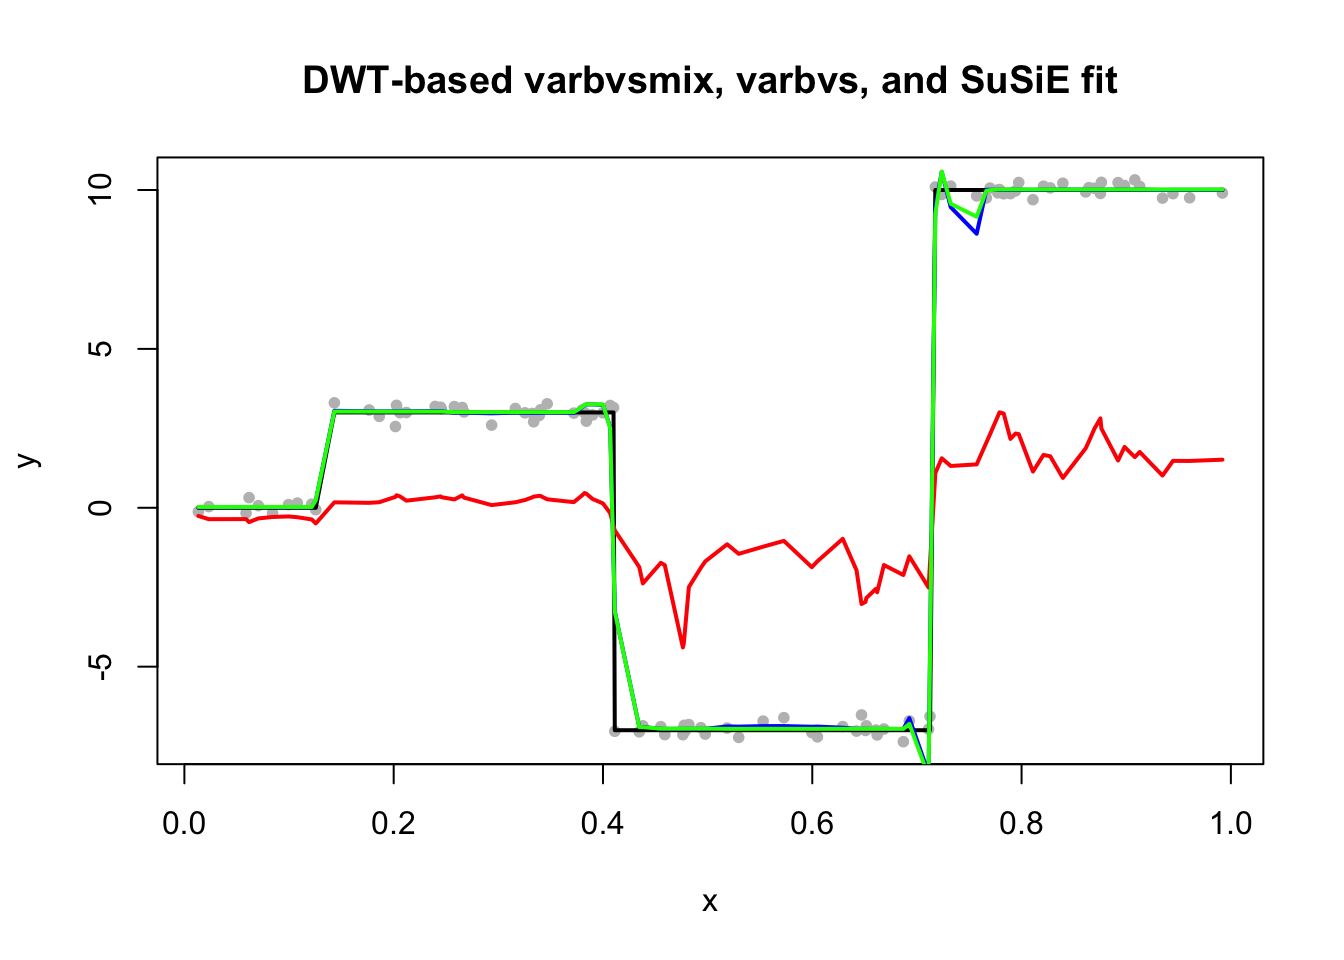
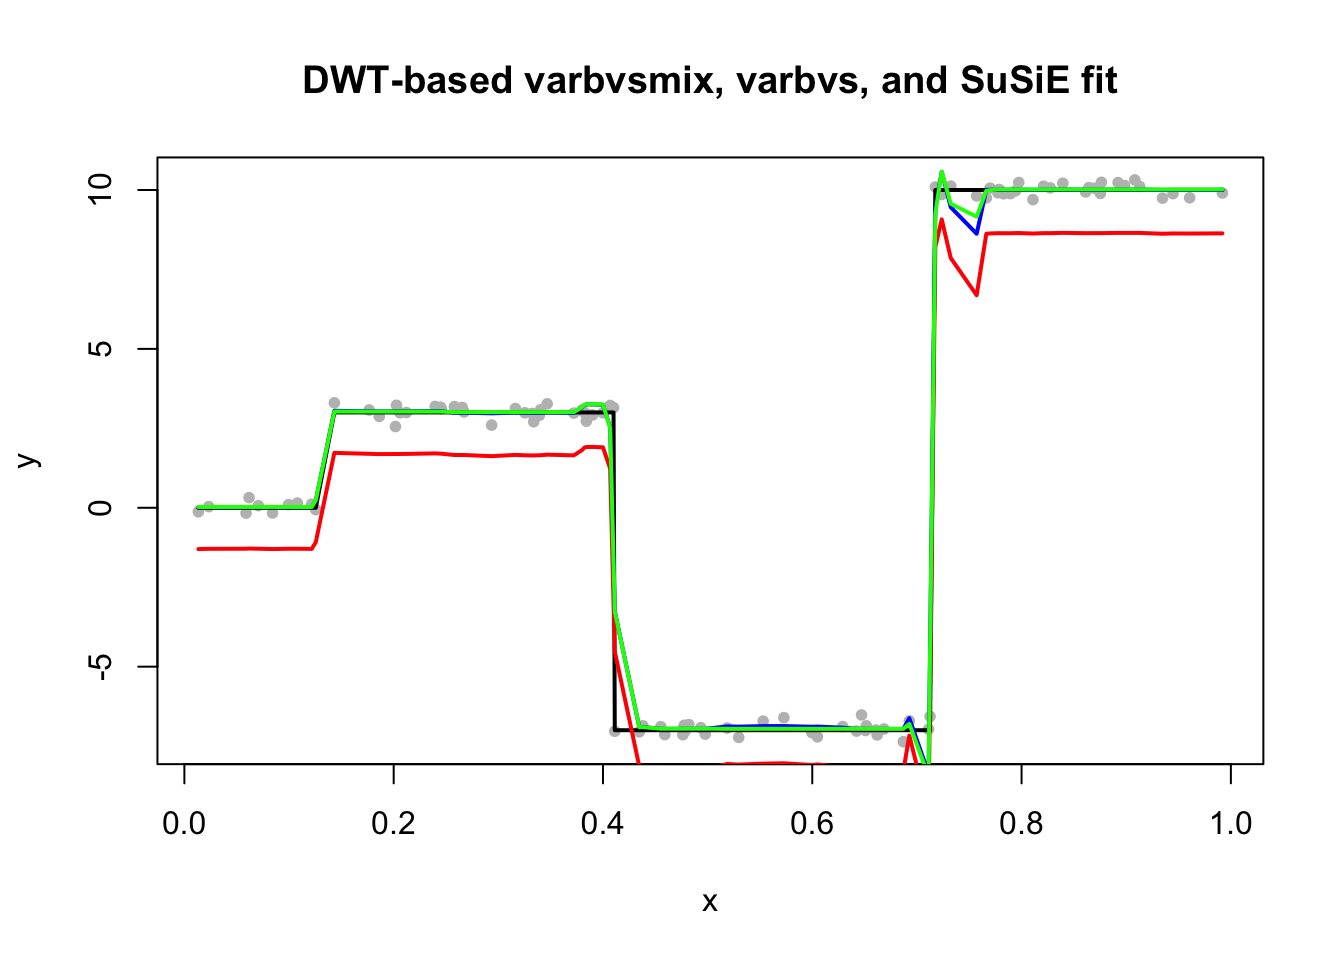
Build site.

diff --git a/docs/wavelet-susie-20190221.html b/docs/wavelet-susie-20190221.html
@@ -460,7 +460,7 @@ div.section {
 </details>
 </li>
 <li>
-<p><details> <summary> <strong style="color:blue;">✔</strong> <strong>Repository version:</strong> <a href="https://github.com/KaiqianZhang/susie-np/tree/79963784defa9d81d6141adc1b2d03c01f268911" target="_blank">7996378</a> </summary></p>
+<p><details> <summary> <strong style="color:blue;">✔</strong> <strong>Repository version:</strong> <a href="https://github.com/KaiqianZhang/susie-np/tree/7502be0c29da3d04389c113c6c67f737e9022ccc" target="_blank">7502be0</a> </summary></p>
 Great! You are using Git for version control. Tracking code development and connecting the code version to the results is critical for reproducibility. The version displayed above was the version of the Git repository at the time these results were generated. <br><br> Note that you need to be careful to ensure that all relevant files for the analysis have been committed to Git prior to generating the results (you can use <code>wflow_publish</code> or <code>wflow_git_commit</code>). workflowr only checks the R Markdown file, but you know if there are other scripts or data files that it depends on. Below is the status of the Git repository when the results were generated:
 <pre><code>
 Ignored files:
@@ -511,6 +511,40 @@ Message
 </tr>
 </thead>
 <tbody>
+<tr>
+<td style="text-align:left;">
+Rmd
+</td>
+<td style="text-align:left;">
+<a href="https://github.com/KaiqianZhang/susie-np/blob/7502be0c29da3d04389c113c6c67f737e9022ccc/analysis/wavelet-susie-20190221.Rmd" target="_blank">7502be0</a>
+</td>
+<td style="text-align:left;">
+kaiqian
+</td>
+<td style="text-align:left;">
+2019-02-21
+</td>
+<td style="text-align:left;">
+try varbvs framework again
+</td>
+</tr>
+<tr>
+<td style="text-align:left;">
+html
+</td>
+<td style="text-align:left;">
+<a href="https://cdn.rawgit.com/KaiqianZhang/susie-np/bd8a5ca88149571d7fa5297cff57338c370963be/docs/wavelet-susie-20190221.html" target="_blank">bd8a5ca</a>
+</td>
+<td style="text-align:left;">
+kaiqian
+</td>
+<td style="text-align:left;">
+2019-02-21
+</td>
+<td style="text-align:left;">
+Build site.
+</td>
+</tr>
 <tr>
 <td style="text-align:left;">
 Rmd
@@ -606,7 +640,6 @@ y = beta + rnorm(n, sd=0.2)</code></pre>
 RW_t.decimated = tcrossprod(R, W.decimated)
 zero.idx = which(colSums(RW_t.decimated)==0)
 RW_t.decimated = RW_t.decimated[,-zero.idx]</code></pre>
-<p>```</p>
 </div>
 <div id="apply-varbvs-framework" class="section level2">
 <h2>Apply <code>varbvs</code> framework</h2>
@@ -617,11 +650,9 @@ sd.grid = c(0,10^seq(-2,1,length.out = 19))</code></pre>
 <pre class="r"><code>beta.est = rowSums(s.varbvsmix$alpha * s.varbvsmix$mu)
 yhat = RW_t.decimated %*% beta.est</code></pre>
 <p>Below we just use DWT-based matrix in the regression. The red line is varbvsmix fit, the blue line is varbvs fit, and the green line is SuSiE fit. We notice that SuSiE and varbvs fits are very similar. varbvs does not solve SuSiE’s problem, which is having artifacts around jumps. And we observe that actually varbvsmix fit is shifted, which seems like the problem could be solved by introducing a scaling parameter (as discussed yesterday). But one thing I’m not sure is about my usage on varbvsmix. I set standard deviations for mixtures as</p>
-<pre><code>sd = c(0, 0.1, 0.2, 0.5)
-sd.grid = c(0,10^seq(-2,1,length.out = 19))</code></pre>
-<p>and perform varbvsmix using both kinds of sd like</p>
-<pre><code>s.varbvsmix1 = varbvsmix(X=RW_t.decimated, Z=NULL, y=y, sa=sd^2)
-s.varbvsmix2 = varbvsmix(X=RW_t.decimated, Z=NULL, y=y, sa=sd.grid^2)</code></pre>
+<pre><code>sd.grid = c(0,10^seq(-2,1,length.out = 19))</code></pre>
+<p>and perform varbvsmix using this sd.grid</p>
+<pre><code>s.varbvsmix = varbvsmix(X=RW_t.decimated, Z=NULL, y=y, sa=sd.grid^2)</code></pre>
 <p>The fits are the same as displayed in the red line below.</p>
 <pre class="r"><code>plot(x, y, pch=20, col=&quot;grey&quot;, main = &quot;DWT-based varbvsmix, varbvs, and SuSiE fit&quot;)
 lines(x, beta, col=&quot;black&quot;, lwd=2)
@@ -629,6 +660,36 @@ lines(x, yhat, col=&#39;red&#39;, lwd=2)
 lines(x, predict(s.varbvs, RW_t.decimated), col=&#39;blue&#39;, lwd=2)
 lines(x, predict(s.susie), col=&quot;green&quot;, lwd=2)</code></pre>
 <p><img src="figure/wavelet-susie-20190221.Rmd/unnamed-chunk-11-1.png" width="672" style="display: block; margin: auto;" /></p>
+<details> <summary><em>Expand here to see past versions of unnamed-chunk-11-1.png:</em></summary>
+<table style="border-collapse:separate; border-spacing:5px;">
+<thead>
+<tr>
+<th style="text-align:left;">
+Version
+</th>
+<th style="text-align:left;">
+Author
+</th>
+<th style="text-align:left;">
+Date
+</th>
+</tr>
+</thead>
+<tbody>
+<tr>
+<td style="text-align:left;">
+<a href="https://github.com/KaiqianZhang/susie-np/blob/bd8a5ca88149571d7fa5297cff57338c370963be/docs/figure/wavelet-susie-20190221.Rmd/unnamed-chunk-11-1.png" target="_blank">bd8a5ca</a>
+</td>
+<td style="text-align:left;">
+kaiqian
+</td>
+<td style="text-align:left;">
+2019-02-21
+</td>
+</tr>
+</tbody>
+</table>
+<p></details></p>
 </div>
 <div id="session-information" class="section level2">
 <h2>Session information</h2>

diff --git a/docs/index.html b/docs/index.html
@@ -327,7 +327,7 @@ div.section {
 </details>
 </li>
 <li>
-<p><details> <summary> <strong style="color:blue;">✔</strong> <strong>Repository version:</strong> <a href="https://github.com/KaiqianZhang/susie-np/tree/79963784defa9d81d6141adc1b2d03c01f268911" target="_blank">7996378</a> </summary></p>
+<p><details> <summary> <strong style="color:blue;">✔</strong> <strong>Repository version:</strong> <a href="https://github.com/KaiqianZhang/susie-np/tree/7502be0c29da3d04389c113c6c67f737e9022ccc" target="_blank">7502be0</a> </summary></p>
 Great! You are using Git for version control. Tracking code development and connecting the code version to the results is critical for reproducibility. The version displayed above was the version of the Git repository at the time these results were generated. <br><br> Note that you need to be careful to ensure that all relevant files for the analysis have been committed to Git prior to generating the results (you can use <code>wflow_publish</code> or <code>wflow_git_commit</code>). workflowr only checks the R Markdown file, but you know if there are other scripts or data files that it depends on. Below is the status of the Git repository when the results were generated:
 <pre><code>
 Ignored files:
@@ -378,6 +378,23 @@ Message
 </tr>
 </thead>
 <tbody>
+<tr>
+<td style="text-align:left;">
+html
+</td>
+<td style="text-align:left;">
+<a href="https://cdn.rawgit.com/KaiqianZhang/susie-np/bd8a5ca88149571d7fa5297cff57338c370963be/docs/index.html" target="_blank">bd8a5ca</a>
+</td>
+<td style="text-align:left;">
+kaiqian
+</td>
+<td style="text-align:left;">
+2019-02-21
+</td>
+<td style="text-align:left;">
+Build site.
+</td>
+</tr>
 <tr>
 <td style="text-align:left;">
 html
